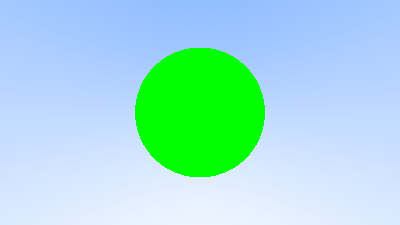
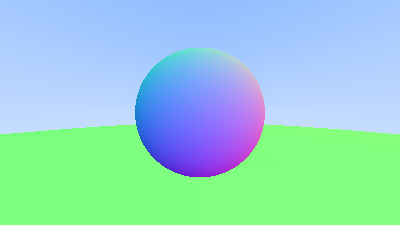
`[geral]` adicionado sistema de renderização de múltiplos objetos
- um novo conjunto de arquivos `objects.cpp/.hpp` nos permite calcular o traçado de luz
para vários objetos (no momento só existe a classe de objeto `Sphere`)

- a função `hit()` da classe `Sphere` sofreu algumas alterações matemáticas para diminuir
o número de etapas de cálculo para otimizar o processo.

- as mudanças pesadas e atualização foram comentadas progressivamente no código fonte

diff --git a/src/objects.cpp b/src/objects.cpp
@@ -1,0 +1,93 @@
+#include "../lib/ray.hpp"
+#include "../lib/objects.hpp"
+
+// Pela álgebra linear, o produto escalar entre dois vetores u, v pode ser computado usando
+// a expressão: u * v = ||u|| ||v|| * cos(a), onde a é o ângulo entre u e v. considere v como
+// unitário, então u * v = ||u|| * cos(a). Note que cos(a) = u / ||u||, que inevitavelmente
+// será unitário também. Se cos(a) < 0, então os vetores está em sentidos opostos, se cos(a) > 0
+// então os vetores estarão no mesmo sentido. NOTE: é por isso que outward_normal tem que ser unitário.
+void HitRecord::set_face_normal(const Ray &r, const Vec3 &outward_normal) {
+
+    // Se for menor que 0, então o vetor direcional do raio de luz e o vetor da superfície são
+    // opostos, logo estamos lidando com a superfície externa. Caso contrário, estamos lidando
+    // com uma superfície interna (a iluminação está "saíndo de dentro pra fora")
+    front_face = (r.direction() * outward_normal) < 0;
+
+    // Se o raio de luz estiver interagindo com a superfície externa, então o vetor normal é o
+    // outward_normal. Caso contrário, entõ é o vetor oposto ao outward_normal.
+    normal_sur_vector = front_face ? outward_normal : -outward_normal;
+
+}
+
+// Essa função calcula se um determinado raio de luz P(t) = Q + td intercepta a esfera
+// Matematicamente, partimos de (C - P)(C - P) = r², onde P = P(t) para sabermos
+// se há interseção. Desenvolvendo essa expressão usando regras de produto escalar
+// chega-se em t²(d * d) - 2t(d * (C - Q)) + (C - Q)(C - Q) - r² = 0, uma equação
+// de segundo grau onde:
+//
+// - a = (d * d) => (o produto vetorial entre o vetor d e ele mesmo equivale a norma ao quadrado)
+// - b = -2(d * (C - Q))
+// - c = (C - Q)(C - Q) - r²
+//
+// A resolução da equação de segundo grau acima retorna para qual t o raio de luz intercepta
+// a esfera
+//
+// NOTE (OTIMIZAÇÃO): Seja b = -2h, então t = ( -b +/- sqrt(b² - 4ac) / 2a ) => (2h +/- sqrt((-2h)² - 4ac) / 2a)
+// portanto (2h +/- sqrt(4h^2 - 4ac) / 2a) => (h +/- sqrt(h² - ac) / a). Com essas operações
+// de substituição, então b = -2(d * (C - Q)) = h +/- sqrt(h² - ac) / a => h = -(b/2) = d * (C - Q).
+//
+// Essa simplificação forçada diminui o número de operações matemáticas necessárias para achar t.
+bool Sphere::hit(const Ray& ray, double ray_tmin, double ray_tmax, HitRecord &h_rec ) const {
+    auto C_minus_Q = m_center - ray.origin();
+
+    auto a = (ray.direction()).length() * (ray.direction().length());
+    auto h = ray.direction() * C_minus_Q;
+    auto c = (C_minus_Q * C_minus_Q) - m_radius*m_radius;
+
+    auto discriminant = h*h - a*c;
+
+    if (discriminant < 0)
+        return false;
+
+    auto t1 = (h - std::sqrt(discriminant)) / a;
+    auto t2 = (h + std::sqrt(discriminant)) / a;
+
+    auto valid_t = t1;
+
+    // Se as raízes, que são valores para o t do raio, não estiverem entre ray_tmin e ray_tmax
+    // então o raio não contabilizou
+    if(t1 <= ray_tmin || t1 >= ray_tmax) {
+        valid_t = t2; // consideramos aqui que t2 seja um possível valor válido para t
+
+        if(t2 <= ray_tmin || t2 >= ray_tmax) {
+            return false;
+        }
+    }
+
+    h_rec.t = valid_t;
+    h_rec.point = ray.at(valid_t);
+
+    // O vetor normal da superfície esférica no ponto sempre será (ponto - centro) / raio
+    // O vetor normal final leva em conta o sentido do raio de luz e sua interação com o objeto
+    Vec3 outward_normal = (h_rec.point - m_center) / m_radius;
+    h_rec.set_face_normal(ray, outward_normal);
+
+    return true;
+}
+
+//
+bool HittableList::hit(const Ray& r, double ray_tmin, double ray_tmax, HitRecord &h_rec) const {
+    HitRecord temp_h_rec;
+    bool hit_anything = false;
+    auto closest_so_far = ray_tmax;
+
+    for (const auto& object : objects) {
+        if(object->hit(r, ray_tmin, closest_so_far, temp_h_rec)) {
+            hit_anything = true;
+            closest_so_far = temp_h_rec.t;
+            h_rec = temp_h_rec;
+        }
+    }
+
+    return hit_anything;
+}

diff --git a/src/render.cpp b/src/render.cpp
@@ -1,34 +1,12 @@
 #include <iostream>
 #include <fstream>
 #include <filesystem>
+#include <memory>
 
 #include "../lib/render.hpp"
 #include "../lib/vector3d.hpp"
+#include "../lib/objects.hpp"
 #include "../lib/ray.hpp"
-
-// Essa função calcula se um determinado raio de luz P(t) = Q + td intercepta a esfera
-// Matematicamente, partimos de (C - P)(C - P) = r², onde P = P(t) para sabermos
-// se há interseção. Desenvolvendo essa expressão usando regras de produto escalar
-// chega-se em t²(d * d) - 2t(d * (C - Q)) + (C - Q)(C - Q) - r² = 0, uma equação
-// de segundo grau onde:
-//
-// - a = (d * d)
-// - b = -2(d ((C - Q)))
-// - c = (C - Q)(C - Q) - r²
-//
-// Se b² - 4ac < 0, então não intercepta, se b² - 4ac = 0, intercepta em apenas um ponto
-// e por fim, se b² - 4ac > 0, intercepta em dois pontos.
-bool Sphere::hit_sphere(const Ray& ray) {
-    auto C_minus_Q = m_center - ray.origin();
-
-    auto a = ray.direction() * ray.direction();
-    auto b = -2.0 * (ray.direction() * C_minus_Q);
-    auto c = (C_minus_Q * C_minus_Q) - m_radius*m_radius;
-
-    auto discriminant = b*b - 4*a*c;
-
-    return (discriminant >= 0);
-}
 
 // Essa função transforma um vetor de cor {R, G, B} em uma linha válida de PPM
 // mais informações sobre o formato PPM pode ser encontrada nos comentários de
@@ -45,14 +23,29 @@ void Render::write_color(std::ostream &out, const Vec3 &color) {
     out << rbyte << ' ' << gbyte << ' ' << bbyte << std::endl;
 }
 
+Vec3 Render::ray_color(const Ray &r, const Hittable &world) {
+    HitRecord rec;
+
+    // Consideramos t_max igual infinito para gerar a imagem especifa
+    if(world.hit(r, 0.0, std::numeric_limits<double>::infinity(), rec))
+        return 0.5 * (rec.normal_sur_vector + Vec3{1, 1, 1});
+
+    Vec3 unit_direction = r.direction().unit();
+    auto a = 0.5*(unit_direction.y() + 1.0);
+    return (1.0-a)*Vec3(1.0, 1.0, 1.0) + a*Vec3(0.5, 0.7, 1.0);
+}
+
 // Trataremos a cor no formato RGB, onde os valores de R, G e B são componentes de um vetor
 void Render::output_to_ppm(const char *filename) {
 
     if (std::filesystem::exists(filename))
         std::clog << "[AVISO] arquivo " << filename << " existe, seu conteúdo será sobreescrito" << std::endl;
 
-    // Objeto para renderizar
-    Sphere obj_sphere(Vec3(0,0,-1), 0.5);
+    // Lista de objetos que será renderizado
+    HittableList world;
+
+    world.add_to_obj_list(std::make_shared<Sphere>(Point3(0, 0, -1.0), 0.5));
+    world.add_to_obj_list(std::make_shared<Sphere>(Point3(0, -100.5, -1.0), 100));
 
     // Arquivo para escrever a renderização em formado .PPM
     std::ofstream output_file(filename, std::ofstream::out | std::ofstream::trunc);
@@ -73,14 +66,8 @@ void Render::output_to_ppm(const char *filename) {
             auto ray_direction = pixel_center - m_camera_center;
 
             Ray r(m_camera_center, ray_direction);
-            Vec3 pixel_color{};
 
-            if(obj_sphere.hit_sphere(r)) {
-                pixel_color = Vec3{0,1,0};
-            } else {
-                pixel_color = r.ray_color();
-            }
-
+            Vec3 pixel_color = ray_color(r, world);
             write_color(output_file, pixel_color);
         }
     }

diff --git a/lib/objects.hpp b/lib/objects.hpp
@@ -1,0 +1,71 @@
+#ifndef OBJECTS_H_
+#define OBJECTS_H_
+
+#include <memory>
+#include <vector>
+
+#include "vector3d.hpp"
+#include "ray.hpp"
+
+// Esse header contém os objetos que queremos renderizar. Todos serão deriváveis de uma classe
+// puramente virtul que servirar como base, chamada de "Hittable" (ou seja, tudo que pode ser
+// "tocado" pela luz)
+
+// Essa estrutura armazena informações de quando um raio de luz toca em um ponto, são elas:
+// 1. O ponto em si
+// 2. O vetor normal ao ponto
+// 3. O valor do parâmetro t da equação da reta do raio de luz
+class HitRecord {
+    public:
+        Point3 point;
+        Vec3 normal_sur_vector;
+        double t;
+        bool front_face;
+
+        // Por convenção, todos os vetores normais à superfície do objeto devem
+        // apontar para fora (no mesmo sentido do vetor centro->ponto na superfície)
+        // NOTE: o vetor outward_normal deve ser obrigatoriamente unitário para a
+        // função abaixo fazer sentido.
+        void set_face_normal(const Ray& r, const Vec3& outward_normal);
+};
+
+class Hittable {
+    public:
+        virtual ~Hittable() = default;
+        virtual bool hit(const Ray &r, double ray_tmin, double ray_tmax, HitRecord &h_rec) const = 0;
+};
+
+class Sphere : public Hittable {
+    public:
+        // NOTE: raio não pode ser negativo
+        Sphere(const Vec3 &center, double radius)
+            : m_center(center), m_radius(fmax(0, radius)) {}
+
+        Vec3 center() { return m_center; };
+        double radius() { return m_radius; };
+
+        // O raio contará como "tocado" se o t obtido estiver contido no intervalo aberto (ray_tmin, ray_tmax)
+        // isso é: ray_tmin < t < ray_tmax
+        bool hit(const Ray& ray, double ray_tmin, double ray_tmax, HitRecord &h_rec) const override;
+
+    private:
+        Vec3 m_center{};
+        double m_radius;
+};
+
+// Uma lista/coleção/agrupamento de todos os objetos que são "tocáveis". Seria uma espécie de "mundo" onde
+// todas as coisas renderizáveis abitam.
+class HittableList : public Hittable {
+    public:
+        std::vector<std::shared_ptr<Hittable>> objects;
+
+        HittableList() {}
+        explicit HittableList(std::shared_ptr<Hittable> object) { add_to_obj_list(object);  }
+
+        void clear() { objects.clear(); };
+        void add_to_obj_list(std::shared_ptr<Hittable> object) { objects.push_back(object); };
+
+        bool hit(const Ray& r, double ray_tmin, double ray_tmax, HitRecord &rec) const override;
+};
+
+#endif // OBJECTS_H_

diff --git a/lib/render.hpp b/lib/render.hpp
@@ -5,13 +5,14 @@
 
 #include "vector3d.hpp"
 #include "ray.hpp"
+#include "objects.hpp"
 
 class Render {
     public:
         explicit Render(int img_width = 400, double viewport_height = 2.0)
-            : m_img_width{ img_width },
-              m_aspect_ratio{ 16.0 / 9.0 },
-              m_viewport_height{viewport_height},
+          : m_aspect_ratio{16.0/9.0},
+            m_img_width{ img_width },
+            m_viewport_height{viewport_height},
 
               // Computa-se a altura em função da largura e do aspect ratio
               // 16 / 9 = largura / altura => altura = (9 * largura)/16 = altura, ou altura = largura / (16/9)
@@ -26,6 +27,7 @@ class Render {
 
         void output_to_ppm(const char *filename);
         void write_color(std::ostream &out, const Vec3 &color);
+        Vec3 ray_color(const Ray &r, const Hittable &world);
 
     private:
         double m_aspect_ratio;
@@ -65,18 +67,6 @@ class Render {
         // https://raytracing.github.io/images/fig-1.04-pixel-grid.jpg
         Vec3 m_viewport_upper_left{m_camera_center - Vec3(0, 0, m_focal_length) - m_viewport_i/2 - m_viewport_j/2};
         Vec3 m_pixel00_loc{m_viewport_upper_left + 0.5 * (m_pixel_delta_i + m_pixel_delta_j)};
-};
-
-class Sphere {
-    public:
-        Sphere(const Vec3 &center, double radius)
-            : m_center(center), m_radius(radius) {};
-
-        bool hit_sphere(const Ray& ray);
-
-    private:
-        Vec3 m_center{};
-        double m_radius;
 };
 
 #endif

diff --git a/lib/ray.hpp b/lib/ray.hpp
@@ -23,11 +23,6 @@ class Ray {
         // at(t) = (x_d, y_d, z_d) + t(x_0, y_0, z_0)
         Point3 at(double t) const {return (m_ray_direction * t) + m_ray_origin;};
 
-        Vec3 ray_color() {
-            Vec3 unit_direction = m_ray_direction.unit();
-            auto a = 0.5*(unit_direction.y() + 1.0);
-            return (1.0-a)*Vec3(1.0, 1.0, 1.0) + a*Vec3(0.5, 0.7, 1.0);
-        }
 };
 
 #endif // RAY_H_

diff --git a/main.cpp b/main.cpp
@@ -4,10 +4,10 @@
 
 auto main(int argc, char *argv[]) -> int {
 
-    Render render_obj{};
+    Render ray_tracing_instance{};
 
     if (argc == 3 && strcmp(argv[1], "--output") == 0)
-        render_obj.output_to_ppm(argv[2]);
+        ray_tracing_instance.output_to_ppm(argv[2]);
     else {
         std::cerr << "[ERRO] Uso: ./" << argv[0] << " --output arquivo.ppm" << std::endl;
         return -1;
